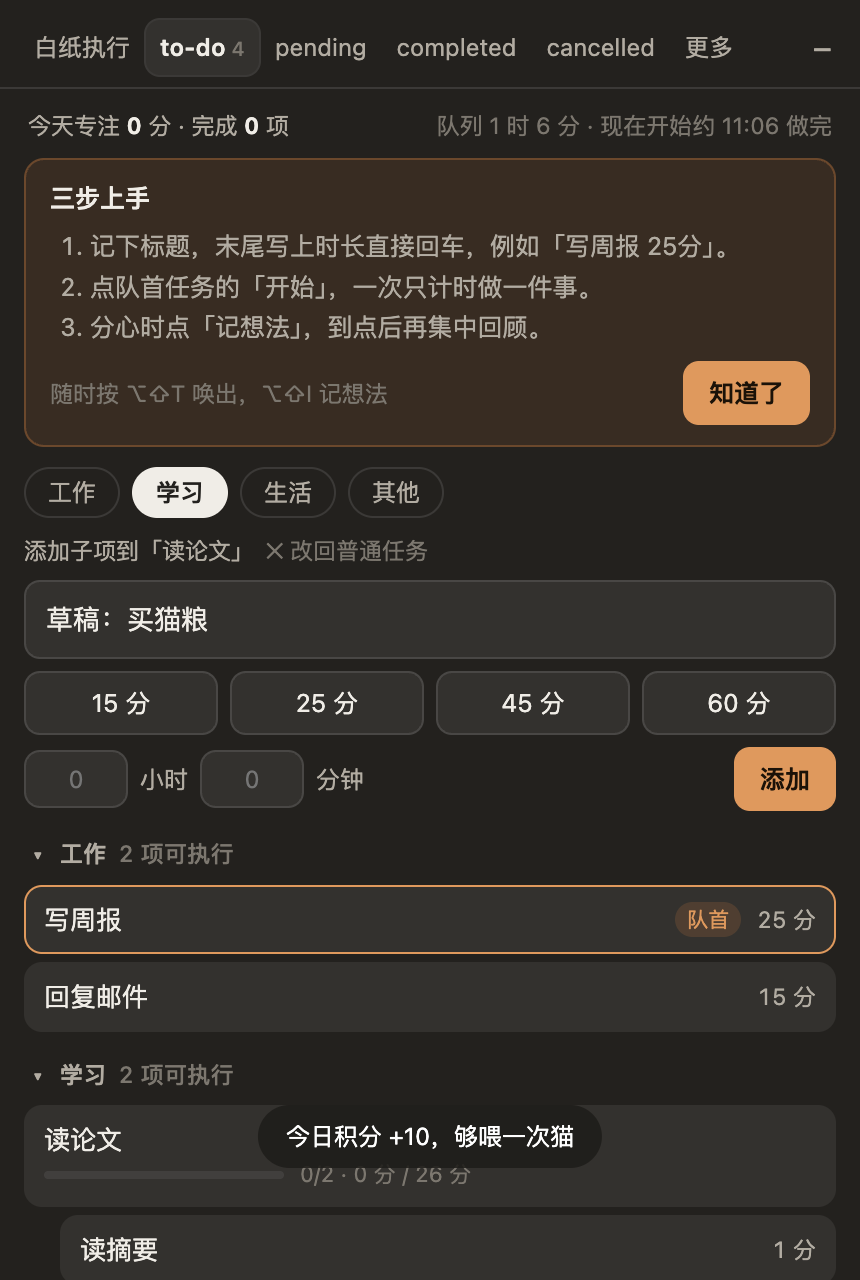
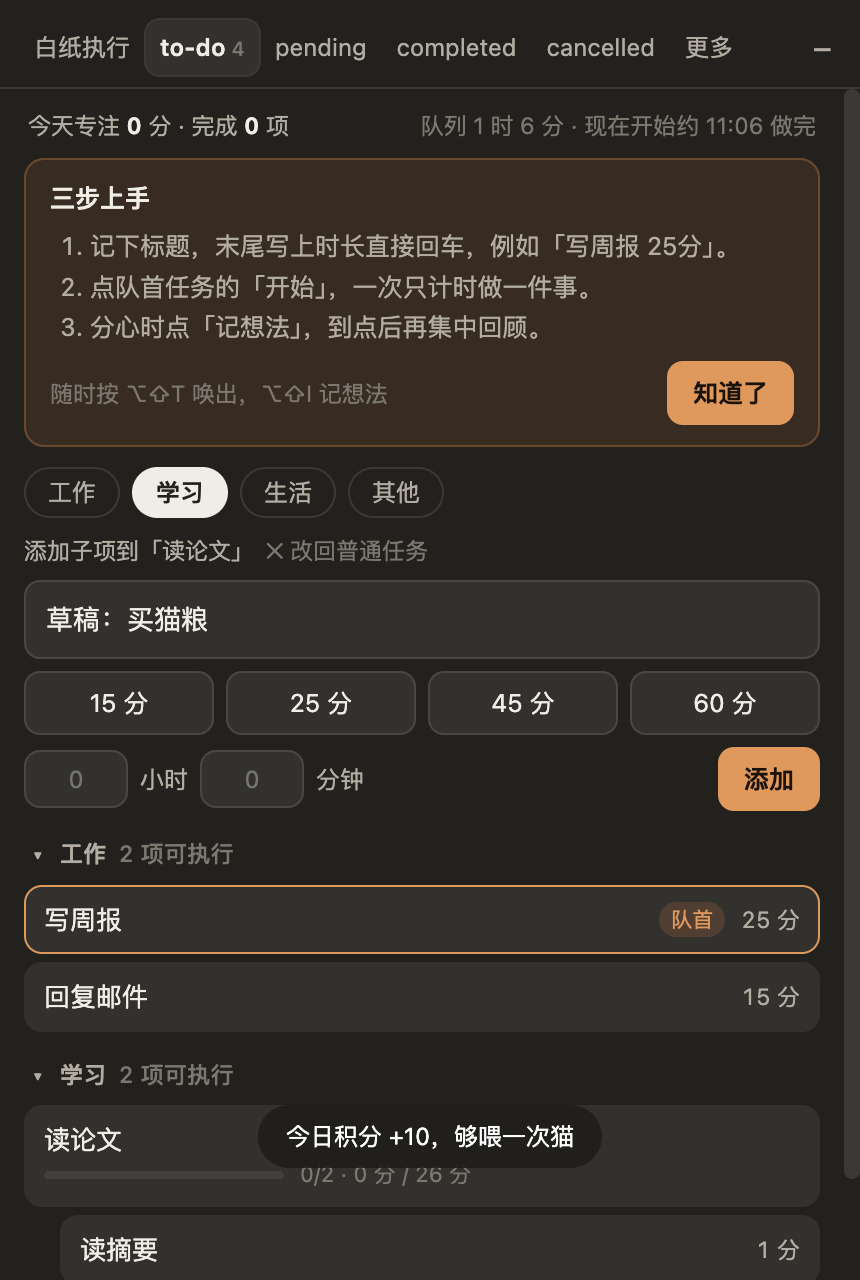
Add Windows platform support and deployment guide
Guard macOS-only window, tray and vibrancy options, show Ctrl/Alt key
labels off macOS, and add package:win alongside package:mac. The e2e
runner is now a Node script so it works without shell env syntax.

README now covers install, run, packaging, first launch, data location,
upgrade and known limits. Windows builds package but are not yet
verified on a real Windows machine.

diff --git a/src/main/main.js b/src/main/main.js
@@ -9,6 +9,8 @@ const { stats } = require('../core/calendar');
 const { Store } = require('./store');
 
 const E2E = !!process.env.TODOCAT_E2E;
+const MAC = process.platform === 'darwin';
+const MOD_KEYS = MAC ? { add: '⌥⇧T', thought: '⌥⇧I', mod: '⌘' } : { add: 'Alt+Shift+T', thought: 'Alt+Shift+I', mod: 'Ctrl+' };
 if (process.env.TODOCAT_DATA_DIR) app.setPath('userData', process.env.TODOCAT_DATA_DIR);
 else if (E2E) app.setPath('userData', fs.mkdtempSync(path.join(os.tmpdir(), 'todocat-e2e-')));
 
@@ -51,7 +53,7 @@ function persist(light = false) {
 
 function broadcast() {
   const snap = engine.snapshot();
-  snap.env = { packaged: app.isPackaged, telemetryQueued: store.countEvents(), telemetryEndpoint: !!TELEMETRY_URL, shortcutsOk };
+  snap.env = { packaged: app.isPackaged, telemetryQueued: store.countEvents(), telemetryEndpoint: !!TELEMETRY_URL, shortcutsOk, keys: MOD_KEYS };
   snap.todayStats = stats(engine.s, 'day', now()).total;
   updateTray();
   for (const w of [ballWin, panelWin]) if (w && !w.isDestroyed()) w.webContents.send('state', snap);
@@ -109,7 +111,7 @@ function applyOnTop() {
   const on = !!engine.s.settings.alwaysOnTop;
   for (const w of [ballWin, panelWin]) {
     w.setAlwaysOnTop(on, 'floating');
-    w.setVisibleOnAllWorkspaces(on, { visibleOnFullScreen: true });
+    if (MAC) w.setVisibleOnAllWorkspaces(on, { visibleOnFullScreen: true });
   }
 }
 
@@ -123,17 +125,18 @@ function createWindows() {
   ballWin = new BrowserWindow({
     ...ballBounds(), frame: false, transparent: true, resizable: false, movable: true, hasShadow: false,
     skipTaskbar: true, fullscreenable: false, maximizable: false, minimizable: false, show: false,
-    type: 'panel', focusable: false, webPreferences,
+    ...(MAC ? { type: 'panel' } : {}), focusable: false, webPreferences,
   });
   ballWin.loadFile(path.join(__dirname, '../renderer/ball.html'));
 
   panelWin = new BrowserWindow({
     width: PANEL_W, height: PANEL_H, frame: false, resizable: false, show: false, skipTaskbar: true,
-    fullscreenable: false, maximizable: false, minimizable: false, type: 'panel',
-    vibrancy: 'popover', visualEffectState: 'active', backgroundColor: '#00000000', roundedCorners: true,
+    fullscreenable: false, maximizable: false, minimizable: false, roundedCorners: true,
+    // macOS 用系统毛玻璃；其他平台先用不透明底色
+    ...(MAC ? { type: 'panel', vibrancy: 'popover', visualEffectState: 'active', backgroundColor: '#00000000' } : { backgroundColor: '#23211e' }),
     webPreferences,
   });
-  panelWin.loadFile(path.join(__dirname, '../renderer/panel.html'), { query: E2E ? { solid: '1' } : {} });
+  panelWin.loadFile(path.join(__dirname, '../renderer/panel.html'), { query: E2E || !MAC ? { solid: '1' } : {} });
   panelWin.on('move', () => {
     if (!panelWin.isVisible()) return;
     const b = panelWin.getBounds();
@@ -244,7 +247,11 @@ function updateTray() {
     const mm = String(Math.floor(s / 60)).padStart(2, '0');
     t = `🐱 ${engine.clockRunning() ? '' : '❚❚ '}${mm}:${String(s % 60).padStart(2, '0')}`;
   } else if (ss.phase === 'review') t = '🐱 待回顾';
-  if (t !== lastTray) { lastTray = t; tray.setTitle(t, { fontType: 'monospacedDigit' }); }
+  if (t !== lastTray) {
+    lastTray = t;
+    if (MAC) tray.setTitle(t, { fontType: 'monospacedDigit' });
+    else tray.setToolTip(t.replace('🐱', 'Todo Cat').trim());
+  }
 }
 
 // ---------- IPC ----------
@@ -310,8 +317,10 @@ function registerIpc() {
 
 function buildTray() {
   try {
-    tray = new Tray(nativeImage.createEmpty());
-    tray.setTitle('🐱');
+    // macOS 菜单栏用文字标题显示倒计时；Windows 托盘需要图标，倒计时放在悬停提示里
+    tray = new Tray(MAC ? nativeImage.createEmpty() : nativeImage.createFromPath(path.join(__dirname, '../../build/icon.png')).resize({ width: 16, height: 16 }));
+    if (MAC) tray.setTitle('🐱');
+    else tray.on('click', () => expand({ userInitiated: true, hold: 4000 }));
     tray.setToolTip('Todo Cat');
     tray.setContextMenu(Menu.buildFromTemplate([
       { label: '打开 Todo Cat', click: () => expand({ userInitiated: true, hold: 4000 }) },
@@ -327,6 +336,7 @@ if (!app.requestSingleInstanceLock()) app.quit();
 else {
   app.on('second-instance', () => expand({ userInitiated: true, hold: 4000 }));
   app.whenReady().then(async () => {
+    if (!MAC) app.setAppUserModelId('com.todocat.app'); // Windows 通知需要
     const dir = app.getPath('userData');
     fs.mkdirSync(dir, { recursive: true });
     store = new Store(path.join(dir, 'todocat.db'));

diff --git a/src/renderer/panel.js b/src/renderer/panel.js
@@ -170,7 +170,7 @@ function renderStrip() {
   $('#today-strip').innerHTML = `<span>${parts.join(' · ')}</span>${eta}`;
   $('#onboard').innerHTML = S.settings.onboarded ? '' : `<div class="onb"><b>三步上手</b>
     <ol><li>记下标题，末尾写上时长直接回车，例如「写周报 25分」。</li><li>点队首任务的「开始」，一次只计时做一件事。</li><li>分心时点「记想法」，到点后再集中回顾。</li></ol>
-    <div class="row-btns"><span class="hint">随时按 ⌥⇧T 唤出，⌥⇧I 记想法</span><button class="btn primary" data-act="onboarded">知道了</button></div></div>`;
+    <div class="row-btns"><span class="hint">随时按 ${S.env.keys.add} 唤出，${S.env.keys.thought} 记想法</span><button class="btn primary" data-act="onboarded">知道了</button></div></div>`;
 }
 
 function renderTodo() {
@@ -400,8 +400,8 @@ function settingsHTML() {
     <div class="set"><div class="tx"><b>把小猫显示到桌面</b><span>小猫坐在悬浮球上。</span></div>${sw('desktopCat')}</div>
     <div class="set"><div class="tx"><b>到点提示音</b><span>计时完成时响一声系统提示音；通知和面板提醒不受影响。</span></div>${sw('sound')}</div>
     <div class="set"><div class="tx"><b>全局快捷键</b>
-      <span><kbd>⌥⇧T</kbd> 唤出并记一件事${s.shortcuts && !S.env.shortcutsOk.add ? '（被其他应用占用，未生效）' : ''}　<kbd>⌥⇧I</kbd> 记想法${s.shortcuts && !S.env.shortcutsOk.thought ? '（被占用，未生效）' : ''}</span>
-      <span>面板内：<kbd>⌘1</kbd>–<kbd>⌘6</kbd> 切换标签　<kbd>N</kbd> 新待办　<kbd>Enter</kbd> 开始队首　<kbd>空格</kbd> 暂停/继续　<kbd>T</kbd> 记想法　<kbd>Esc</kbd> 收起</span></div>${sw('shortcuts')}</div>
+      <span><kbd>${S.env.keys.add}</kbd> 唤出并记一件事${s.shortcuts && !S.env.shortcutsOk.add ? '（被其他应用占用，未生效）' : ''}　<kbd>${S.env.keys.thought}</kbd> 记想法${s.shortcuts && !S.env.shortcutsOk.thought ? '（被占用，未生效）' : ''}</span>
+      <span>面板内：<kbd>${S.env.keys.mod}1</kbd>–<kbd>${S.env.keys.mod}6</kbd> 切换标签　<kbd>N</kbd> 新待办　<kbd>Enter</kbd> 开始队首　<kbd>空格</kbd> 暂停/继续　<kbd>T</kbd> 记想法　<kbd>Esc</kbd> 收起</span></div>${sw('shortcuts')}</div>
     <div class="set"><div class="tx"><b>自愿上报使用数据（封闭测试）</b>
       <span>默认关闭，核心功能全程可离线使用。打开后只上报事件元数据（例如“开始计时”“回顾完成”及时长、条数），用于了解录入、计时和回顾流程是否顺畅。</span>
       <span>使用本次安装的随机 ID 和可选的测试码；<b style="display:inline">任务标题、想法正文、设备指纹都不采集</b>。原始事件保留 90 天。随时可以关闭，关闭即停止采集并清空本机排队的数据；需要删除已上报的数据，请把测试码告诉测试负责人。</span>
@@ -646,7 +646,7 @@ document.addEventListener('dblclick', (e) => {
 // 面板内键盘操作
 document.addEventListener('keydown', (e) => {
   if (!S) return;
-  if (e.metaKey && /^[1-6]$/.test(e.key)) { e.preventDefault(); setTab(TABS[Number(e.key) - 1]); return; }
+  if ((e.metaKey || e.ctrlKey) && /^[1-6]$/.test(e.key)) { e.preventDefault(); setTab(TABS[Number(e.key) - 1]); return; }
   if (/INPUT|TEXTAREA/.test(e.target.tagName) || e.metaKey || e.ctrlKey || e.altKey) return;
   const ss = S.session;
   if (e.target.tagName === 'BUTTON' && (e.key === 'Enter' || e.key === ' ')) return; // 交给按钮自己处理

diff --git a/src/renderer/panel.css b/src/renderer/panel.css
@@ -10,7 +10,7 @@
 }
 * { box-sizing: border-box; }
 html, body { height: 100%; margin: 0; }
-body { font: 13px/1.45 -apple-system, BlinkMacSystemFont, "PingFang SC", "Helvetica Neue", sans-serif; color: var(--fg);
+body { font: 13px/1.45 -apple-system, BlinkMacSystemFont, "PingFang SC", "Segoe UI", "Microsoft YaHei UI", "Microsoft YaHei", "Helvetica Neue", sans-serif; color: var(--fg);
   background: var(--tint); display: flex; flex-direction: column; overflow: hidden; user-select: none; -webkit-user-select: none; cursor: default; }
 body.solid { background: var(--solid); }
 button { font: inherit; color: inherit; background: none; border: 0; padding: 0; cursor: pointer; }
@@ -244,3 +244,6 @@ button.tag:hover { background: var(--accent); color: var(--accent-fg); }
 @keyframes hop { 0% { transform: translateY(0); } 35% { transform: translateY(-16px) scale(1.04); } 70% { transform: translateY(0) scale(.98, 1.02); } 100% { transform: none; } }
 .pts { flex-wrap: wrap; }
 @media (prefers-reduced-motion: reduce) { *, *::before, *::after { animation: none !important; transition: none !important; } }
+::-webkit-scrollbar { width: 8px; }
+::-webkit-scrollbar-thumb { background: var(--line); border-radius: 4px; }
+::-webkit-scrollbar-track { background: transparent; }

diff --git a/scripts/e2e.js b/scripts/e2e.js
@@ -1,0 +1,16 @@
+'use strict';
+// 跨平台启动端到端走查：node scripts/e2e.js [recover]
+const { spawnSync } = require('node:child_process');
+const fs = require('node:fs');
+const os = require('node:os');
+const path = require('node:path');
+const electron = require('electron');
+
+const root = path.join(__dirname, '..');
+const dataDir = fs.mkdtempSync(path.join(os.tmpdir(), 'todocat-e2e-'));
+const run = (mode) => spawnSync(electron, ['.'], { cwd: root, stdio: 'inherit', env: { ...process.env, TODOCAT_E2E: mode, TODOCAT_DATA_DIR: dataDir } }).status;
+// 第一阶段走完主流程后强制退出；第二阶段用同一份数据验证异常恢复
+const a = run('1');
+const b = a === 0 ? run('recover') : 1;
+fs.rmSync(dataDir, { recursive: true, force: true });
+process.exit(a || b);

diff --git a/src/renderer/ball.html b/src/renderer/ball.html
@@ -5,7 +5,7 @@
 <meta http-equiv="Content-Security-Policy" content="default-src 'self'; style-src 'self' 'unsafe-inline'; script-src 'self' 'unsafe-inline'">
 <style>
   html, body { margin: 0; height: 100%; background: transparent; overflow: hidden; user-select: none; -webkit-user-select: none;
-    font-family: -apple-system, BlinkMacSystemFont, "PingFang SC", sans-serif; }
+    font-family: -apple-system, BlinkMacSystemFont, "PingFang SC", "Segoe UI", "Microsoft YaHei UI", sans-serif; }
   body { display: flex; flex-direction: column; justify-content: flex-end; align-items: center; }
   #cat { height: 58px; display: none; align-items: flex-end; justify-content: center; margin-bottom: -10px; pointer-events: none; position: relative; z-index: 2; }
   #cat.on { display: flex; }

diff --git a/scripts/sign-mac.js b/scripts/sign-mac.js
@@ -1,0 +1,11 @@
+'use strict';
+// 给打包出的 macOS App 做本地临时签名（Apple Silicon 上未签名的 App 无法启动）
+const { execFileSync } = require('node:child_process');
+const fs = require('node:fs');
+const path = require('node:path');
+const dist = path.join(__dirname, '../dist');
+for (const dir of fs.readdirSync(dist).filter((d) => d.includes('-darwin-'))) {
+  const app = path.join(dist, dir, 'Todo Cat.app');
+  execFileSync('codesign', ['--force', '--deep', '-s', '-', app], { stdio: 'inherit' });
+  console.log('signed', app);
+}

diff --git a/README.md b/README.md
@@ -1,54 +1,156 @@
-# Todo Cat（macOS 版）
+# Todo Cat
 
-按 `PRD-Todo-Cat.md`（v1）实现的桌面待办：常驻悬浮球 → 展开面板 → 录入标题和时长 → 「白纸执行」一次计时做一件事 → 分心时记想法 → 到点或推出后集中回顾。附个人日历和可选的小猫。
+桌面悬浮待办：常驻悬浮球随手记任务，在「白纸执行」里一次计时做一件事，分心时先把想法记下来，到点后再集中回顾。附个人日历和一只可选的小猫。
 
-技术栈沿用 PRD 7.3：Electron + 本地 SQLite（Electron 自带的 `node:sqlite`，没有原生依赖需要编译）。
+技术栈：Electron + 本地 SQLite（Electron 自带的 `node:sqlite`，没有需要编译的原生依赖）。数据只存在本机，不需要账号，不需要服务器。
 
-## 运行
+| | |
+| --- | --- |
+| ![to-do](e2e-shots/10-todo-progress.png) | ![白纸执行](e2e-shots/04b-focus-ring.png) |
+
+## 平台支持
+
+| 平台 | 状态 |
+| --- | --- |
+| macOS（Apple Silicon / Intel） | 已在 macOS 15、Apple Silicon 上实际运行，并通过自动走查。Intel 包能构建，未在 Intel 机器上运行过。 |
+| Windows 10 / 11（x64） | 代码已做平台适配，安装包能构建，**但还没有在真实 Windows 机器上运行验证**。已知差异见下文。 |
+
+## 部署
+
+### 1. 准备环境
+
+- Node.js 22 或更新（开发时用的是 26）
+- Git
+- 约 500 MB 磁盘空间（Electron 运行时）
 
 ```bash
+git clone https://github.com/Timing-up/todo-cat.git
+cd todo-cat
 npm install
-npm start          # 开发运行
-npm test           # 核心规则与存储的单元测试
-npm run e2e        # 在真实窗口里自动走查主流程并截图到 e2e-shots/（使用临时数据目录）
-npm run package    # 生成 dist/Todo Cat-darwin-arm64/Todo Cat.app
 ```
 
-数据保存在 `~/Library/Application Support/Todo Cat/todocat.db`。
+`npm install` 会下载 Electron 运行时（约 100 MB）。下载慢时先设置镜像再安装：
 
-## 结构
+```bash
+export ELECTRON_MIRROR=https://npmmirror.com/mirrors/electron/
+```
+
+Windows PowerShell 下写作 `$env:ELECTRON_MIRROR="https://npmmirror.com/mirrors/electron/"`。
+
+### 2. 直接运行（不打包）
+
+```bash
+npm start
+```
+
+屏幕右上方会出现一个橙色悬浮球，鼠标悬停或点击即可展开面板。
+
+### 3. 打包成可分发的应用
+
+**macOS**（需要在 Mac 上执行）：
+
+```bash
+npm run package:mac
+```
+
+产物：
+
+- `dist/Todo Cat-darwin-arm64/Todo Cat.app`（Apple Silicon）
+- `dist/Todo Cat-darwin-x64/Todo Cat.app`（Intel）
+
+把对应的 `Todo Cat.app` 拖进「应用程序」文件夹即可。
+
+**Windows**（在 Windows 或 Mac 上都能构建）：
+
+```bash
+npm run package:win
+```
+
+产物是文件夹 `dist/Todo Cat-win32-x64/`，把整个文件夹拷到目标机器，运行里面的 `Todo Cat.exe`。这是免安装的绿色版，没有安装程序。
+
+### 4. 首次打开
+
+应用没有付费的开发者证书签名，系统会拦一下：
+
+- **macOS**：脚本只做了本地临时签名。从别的机器拷来的 App 首次打开会提示「无法验证开发者」，在 Finder 里右键 App →「打开」→ 再点「打开」。如果提示「已损坏」，执行：
+
+  ```bash
+  xattr -cr "/Applications/Todo Cat.app"
+  ```
+
+- **Windows**：SmartScreen 会提示「Windows 已保护你的电脑」，点「更多信息」→「仍要运行」。
+
+### 5. 升级、数据与卸载
+
+- **升级**：`git pull && npm install`，重新打包后覆盖旧的 App 或文件夹。数据库会自动迁移，数据不受影响。
+- **数据位置**：
+  - macOS：`~/Library/Application Support/Todo Cat/todocat.db`
+  - Windows：`%APPDATA%\Todo Cat\todocat.db`
+- **备份**：先退出应用，再拷走上面的 `todocat.db`（连同旁边的 `-wal`、`-shm` 文件）。
+- **卸载**：删除 App（或文件夹），再删除上面的数据目录。
+- **退出**：macOS 点菜单栏的 🐱，Windows 右键托盘图标，或在悬浮球上右键 →「退出 Todo Cat」。
+
+### 6. 可选配置
+
+| 环境变量 | 作用 |
+| --- | --- |
+| `TODOCAT_DATA_DIR` | 改用指定的数据目录（例如放一份测试数据） |
+| `TODOCAT_TELEMETRY_URL` | 自愿上报的接收地址。**不设置时，即使用户打开了上报开关，事件也只留在本机队列里，不会发往任何地方。** |
+
+## 怎么用
+
+1. 在 to-do 里记下标题，末尾直接写时长再回车，例如「写周报 25分」「读论文 1h30」「散步半小时」；也可以回车后点 15/25/45/60 快捷项。
+2. 点队首任务的「开始」进入白纸执行，一次只计时一件事。
+3. 分心时点「记想法」（计时会暂停），写完回车，继续做事。
+4. 到点后回顾想法：想过了就勾上，或一键转成新的待办。全部勾完才加载下一项。
+5. 还没做完但想先放一放，点「推出」，任务进 pending，之后可以送回原位置按剩余时长继续。
+
+### 快捷键
+
+| 操作 | macOS | Windows |
+| --- | --- | --- |
+| 唤出面板并记一件事（全局） | ⌥⇧T | Alt+Shift+T |
+| 执行中记想法（全局） | ⌥⇧I | Alt+Shift+I |
+| 切换标签 | ⌘1–⌘6 | Ctrl+1–Ctrl+6 |
+| 新待办 / 开始队首 / 暂停继续 / 记想法 / 收起 | N / Enter / 空格 / T / Esc | 同左 |
+
+全局快捷键可以在「更多 → 设置」里关闭；被其他应用占用时设置页会提示未生效。
+
+## 功能一览
+
+- **悬浮球与面板**：可拖动、贴边、置顶；悬停展开，鼠标离开自动收起，编辑时保持展开；右键菜单。
+- **任务**：四个分类（工作、学习、生活、其他）、两层任务、父任务按计划分钟汇总进度、同级拖动排序。
+- **白纸执行**：环形倒计时、暂停、推出；计时到点自动提醒，记为「计时完成」。
+- **想法**：录入时暂停计时；到点或推出后集中回顾；可转成待办；收件箱按天列出并可搜索。
+- **日历**：日 / 周 / 月视图，统计实际运行时间、完成数和想法数；运行时间按本地午夜拆分。
+- **小猫**：完成计时和每天首次打开得积分，可以喂猫；久未喂养会外出打猎，不影响待办使用。
+- **保存与恢复**：退出、锁屏、睡眠时自动暂停并保存；异常退出后恢复到最后保存点并提示。
+- **自愿上报**：默认关闭；只记录事件元数据，不含任务标题和想法正文；随时可撤回。
+
+没有做的：账号与同步、到期日、手动勾完任务或提前结束计时、自动开始下一项。
+
+## 已知限制
+
+- **Windows 未实机验证**。与 macOS 的已知差异：面板是不透明底色（没有毛玻璃）；倒计时显示在托盘图标的悬停提示里，而不是任务栏文字。
+- **开机自启动**在未正式签名的 macOS 包上会被系统拒绝，开关会提示失败。
+- 积分数值、饥饿时长是占位值，尚未调优。
+- 分类固定为四个，暂不能自定义。
+
+## 开发
+
+```bash
+npm test       # 规则引擎与存储的单元测试
+npm run e2e    # 在真实窗口里自动走查主流程（含强杀后恢复），截图输出到 e2e-shots/
+```
+
+走查使用临时数据目录，不会碰真实数据。
 
 | 路径 | 内容 |
 | --- | --- |
-| `src/core/engine.js` | 规则引擎（任务、队列、计时、想法、回顾、推出、删除、恢复、积分），纯逻辑、时钟可注入 |
-| `src/core/calendar.js` | 日/周/月统计，运行时间按本地午夜拆分 |
+| `src/core/engine.js` | 规则引擎：任务、队列、计时、想法、回顾、推出、删除、恢复、积分。纯逻辑，时钟可注入 |
+| `src/core/calendar.js` | 日 / 周 / 月统计 |
 | `src/main/store.js` | SQLite 存储，每次保存一个事务；完成记录与积分用主键保证不重发 |
-| `src/main/main.js` | 主进程：悬浮球与面板窗口、IPC、心跳保存、锁屏/睡眠暂停、通知、自愿上报队列 |
-| `src/renderer/` | 悬浮球、面板界面、小猫插画 |
+| `src/main/main.js` | 主进程：窗口、IPC、心跳保存、锁屏暂停、通知、快捷键、托盘、上报队列 |
+| `src/renderer/` | 悬浮球、面板界面、一行录入解析、小猫插画 |
+| `scripts/` | 图标生成、macOS 签名、走查启动器 |
 | `test/` | 单元测试与端到端走查脚本 |
-
-## v0.2 在 PRD 之外增加的交互与功能
-
-- **一行录入**：标题末尾写时长直接回车，如「写周报 25分」「读论文 1h30」「散步半小时」。
-- **全局快捷键**：⌥⇧T 唤出面板并聚焦录入框，⌥⇧I 在执行中直接记想法（可在设置里关闭）。
-- **面板内键盘操作**：⌘1–⌘6 切换标签，N 新待办，Enter 开始队首，空格暂停/继续，T 记想法，Esc 收起；双击标题改名。
-- **想法转待办**：回顾时或在「更多 → 想法」里，一键把想法变成计时待办（回顾中算作已处理）。
-- **想法收件箱**：所有仍保留的想法按天列出，可搜索。
-- **今日概览**：今天专注分钟、完成数、连续天数，以及队列预计做完的时间。
-- **白纸执行**：环形进度、计时完成时的彩纸动效。
-- **悬浮球**：右键菜单（开始/暂停/记想法/退出）、拖到屏幕边缘自动贴边、有回顾或下一项待开始时轻微呼吸提醒。
-- **菜单栏**：执行中显示倒计时。
-- **小猫**：眨眼、摇尾巴、喂食会跳一下，会根据状态说一句话。
-- **新手引导**卡片、到点提示音开关。
-
-以下 PRD 明确排除的能力仍然没有做：手动勾完任务或提前结束计时、自动启动下一项、到期日、账号与同步。
-
-## 与 PRD 的对应和取舍
-
-- 四个预设分类定为：工作、学习、生活、其他（PRD 未给名称）。
-- 积分数值为占位：计时完成 +10、每日首次打开 +10、喂一次 10；48 小时未喂显示「外出打猎」（PRD 标为待测）。
-- 「同父拆分」实现为在该子项后面插入一个兄弟子项。
-- 子项全部被删除后，父任务回到独立任务形态，留在删除前所在的状态页。
-- 自愿上报：默认关闭，只排队事件元数据。接收服务地址通过环境变量 `TODOCAT_TELEMETRY_URL` 配置；未配置时事件只留在本机队列，不会发往任何地方。
-- 开机自启动只在打包后的 App 里生效。
-- 桌面小猫实现为坐在悬浮球上。
